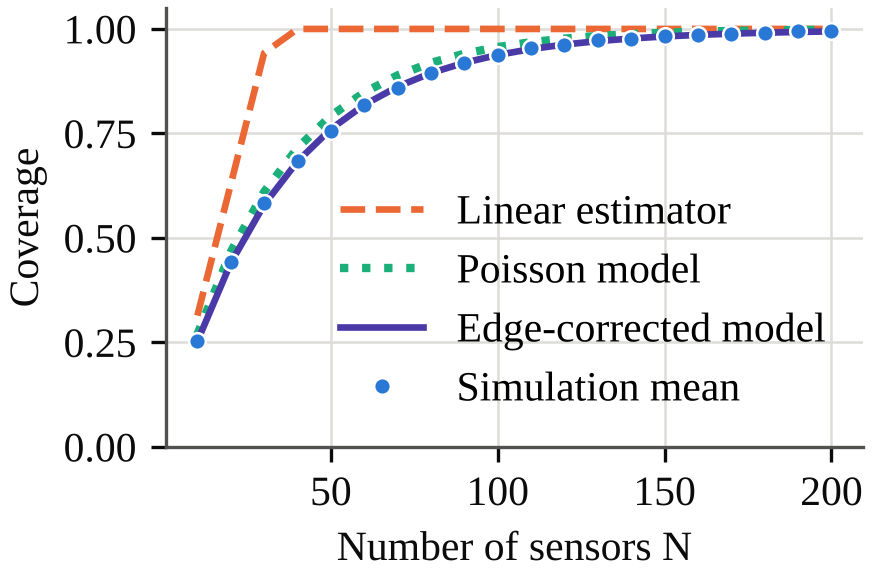
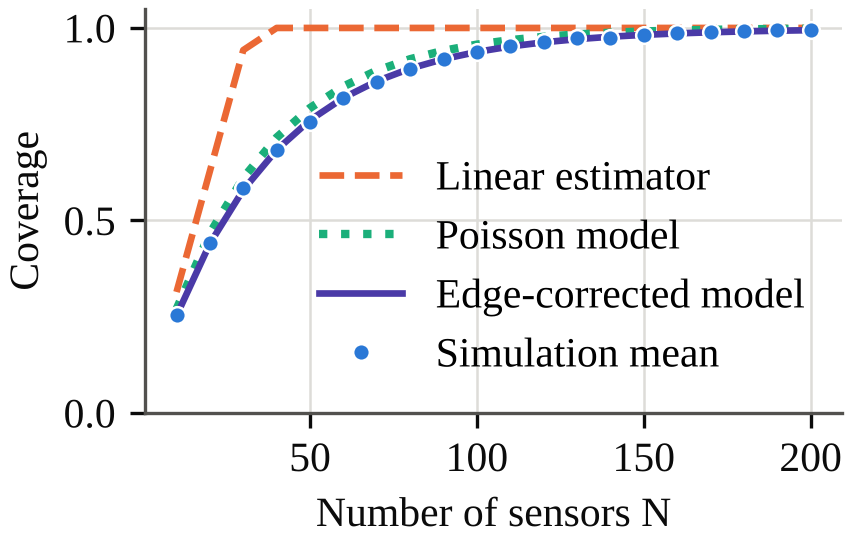
Manuscript: shorter text, split long tables, two-line display equations, compact figures
Tightens the introduction, related work, setup and conclusion (about 400 words) without
changing any statement that answers the reviewers. Long tables may continue in the next
column with a repeated header; Tables 1, 3 and 14 no longer wrap words inside cells;
Eqs. (5), (9), (11), (23)-(25) are set on two lines so that they fit one column; seven
figures are slightly shorter. mark_changes.py ignores pure layout changes of equations.

Changed region(s): [[0.0, 0.0, 1.0, 0.875], [0.3666, 0.9062, 0.7944, 0.9688], [0.9166, 0.8125, 1.0, 0.875]]

diff --git a/experiments/make_figures.py b/experiments/make_figures.py
@@ -26,7 +26,7 @@ os.makedirs(FIG, exist_ok=True)
 
 C1, C2, C3, C4, C5, C6 = "#2a78d6", "#eb6834", "#1baf7a", "#4a3aa7", "#e87ba4", "#008300"
 INK, MUTED, GRIDC = "#0b0b0b", "#52514e", "#dddcd8"
-W, H = 3.0, 1.9                          # inserted at 7.6 cm, one IJIES column
+W, H = 3.0, 1.75                         # inserted at 7.6 cm, one IJIES column
 
 from matplotlib import font_manager  # noqa: E402
 
@@ -83,17 +83,17 @@ def save(fig, name):
 
 # ----------------------------------------------------------------------------- Fig 1 framework
 def fig_framework():
-    fig, ax = plt.subplots(figsize=(W, 4.3))
+    fig, ax = plt.subplots(figsize=(W, 3.95))
     ax.set_xlim(-0.2, 10.2)
-    ax.set_ylim(0, 18.55)
+    ax.set_ylim(0, 17.05)
     ax.axis("off")
     boxes = [
-        (16.0, "Inputs: field side L, sensing radius r,\ncommunication range $R_c$, target $C_t$,\nrisk level δ, failure rate f, drop error σ"),
-        (13.4, "Edge-corrected statistics: mean E[C]\nand variance Var(C), Eqs. (3)-(6)"),
-        (10.8, "Coverage rule: smallest N with\nP(C ≥ $C_t$) ≥ 1 − δ/2 (Beta model)"),
-        (8.2, "Connectivity rule: smallest N with\nP(no isolated node) ≥ 1 − δ/2"),
-        (5.6, "Design: random drop, N = larger rule;\nplanned drop, error-tolerant lattice"),
-        (3.0, "Certification on fresh drops: accept\nif lower bound ≥ 1 − δ, else enlarge"),
+        (14.5, "Inputs: field side L, sensing radius r,\ncommunication range $R_c$, target $C_t$,\nrisk level δ, failure rate f, drop error σ"),
+        (12.15, "Edge-corrected statistics: mean E[C]\nand variance Var(C), Eqs. (3)-(6)"),
+        (9.8, "Coverage rule: smallest N with\nP(C ≥ $C_t$) ≥ 1 − δ/2 (Beta model)"),
+        (7.45, "Connectivity rule: smallest N with\nP(no isolated node) ≥ 1 − δ/2"),
+        (5.1, "Design: random drop, N = larger rule;\nplanned drop, error-tolerant lattice"),
+        (2.75, "Certification on fresh drops: accept\nif lower bound ≥ 1 − δ, else enlarge"),
         (0.4, "Output: certified node count or layout\n(or: not certified)"),
     ]
     last = len(boxes) - 1
@@ -116,21 +116,23 @@ def fig_calibration():
     groups = list(dict.fromkeys(q["name"] for q in rows))
     style = {"small N": (C1, "o"), "very high target": (C2, "s"), "rectangle 2:1": (C3, "^"),
              "rectangle 4:1": (C4, "v"), "L-shaped field": (C5, "D"), "field with a hole": (C6, "P")}
-    fig, ax = plt.subplots(figsize=(W, 2.5))
+    short = {"small N": "small N", "very high target": "high $C_t$", "rectangle 2:1": "rect. 2:1",
+             "rectangle 4:1": "rect. 4:1", "L-shaped field": "L-shape", "field with a hole": "hole"}
+    fig, ax = plt.subplots(figsize=(W, 2.3))
     ax.plot([0, 1], [0, 1], color=INK, lw=0.8, ls="--", zorder=1)
     for g in groups:
         q = [x for x in rows if x["name"] == g]
         col, mk = style.get(g, (MUTED, "o"))
         ax.errorbar([x["predicted"] for x in q], [x["observed"] for x in q],
                     yerr=[[x["observed"] - x["lower"] for x in q], [x["upper"] - x["observed"] for x in q]],
-                    fmt=mk, ms=3.2, color=col, ecolor=col, elinewidth=0.6, capsize=0, lw=0, label=g, zorder=2)
+                    fmt=mk, ms=3.2, color=col, ecolor=col, elinewidth=0.6, capsize=0, lw=0, label=short.get(g, g), zorder=2)
     lo = min(min(x["predicted"] for x in rows), min(x["lower"] for x in rows))
     lo = max(0.0, math.floor(lo * 20) / 20)
     ax.set_xlim(lo, 1.0)
     ax.set_ylim(lo, 1.0)
     ax.set_xlabel("Predicted P(C ≥ $C_t$), Beta rule")
     ax.set_ylabel("Observed share of drops")
-    ax.legend(loc="lower center", bbox_to_anchor=(0.45, 1.0), ncol=2, handletextpad=0.2, columnspacing=0.6,
+    ax.legend(loc="lower center", bbox_to_anchor=(0.45, 1.0), ncol=3, handletextpad=0.2, columnspacing=0.6,
               labelspacing=0.2, handlelength=1.0, borderaxespad=0.2)
     save(fig, "paper_fig11_calibration.png")
 
@@ -248,7 +250,7 @@ def fig_placement():
     e17 = load("E17_certification.csv")
     n_cert = [x for x in e17 if x["part"] == "coverage" and x["L"] == 200 and x["r"] == 25 and x["target"] == 0.99]
     n_cert = int(n_cert[-1]["N_certified"])                    # same L / r as the 500 m field with r = 62.5 m
-    fig, ax = plt.subplots(figsize=(W, 2.3))
+    fig, ax = plt.subplots(figsize=(W, 2.15))
     for kind, col, mk in (("triangular", C4, "o"), ("square", C3, "s")):
         q = [x for x in rows if x["kind"] == kind]
         ax.plot([x["sigma_over_r"] for x in q], [x["robust_nodes"] for x in q], color=col, marker=mk, ms=4)
@@ -282,7 +284,7 @@ def fig_baselines():
     methods = [("Random", C2, "v"), ("VFA", C5, "D"), ("GWO", C6, "^"), ("VASF-PSO", C3, "s"),
                ("PSO", "#eda100", "P"), ("ICGWO", MUTED, "X"), ("DAR-SSA", C1, "o"), ("GA", "#8a5a2b", "h"),
                ("Proposed", C4, "*")]
-    fig, ax = plt.subplots(figsize=(W, 2.1))
+    fig, ax = plt.subplots(figsize=(W, 1.85))
     for m, col, mk in methods:
         q = sorted([x for x in rows if x["method"] == ("Proposed lattice" if m == "Proposed" else m)], key=lambda x: x["N"])
         if not q:
@@ -322,7 +324,7 @@ def fig_environment():
     scen = list(dict.fromkeys(q["scenario"] for q in rows))
     labels = {"Open, unit disk": "Open\nfield", "Open, shadowing 8 dB": "Open\n8 dB",
               "Urban, no shadowing": "Urban\n0 dB", "Urban, shadowing 8 dB": "Urban\n8 dB"}
-    fig, ax = plt.subplots(figsize=(W, 2.0))
+    fig, ax = plt.subplots(figsize=(W, 1.85))
     w = 0.27
     for i, (rule, col, lab) in enumerate([("open_field_rule", C2, "Open-field"),
                                           ("environment_aware_rule", C4, "Aware, analytic"),

diff --git a/manuscript/ijies_docx.py b/manuscript/ijies_docx.py
@@ -180,8 +180,12 @@ class Doc:
         self.add(caption(f"Figure. {self.fig_count} {cap}", after=160))
         return self.fig_count
 
-    def table(self, cap, rows, widths, header_rows=1, align=None, size=20, mono_first=False):
-        """Three-line table, 10 pt, kept on one page."""
+    def table(self, cap, rows, widths, header_rows=1, align=None, size=20, mono_first=False, split=False, keep=()):
+        """Three-line table, 10 pt, kept on one page.
+
+        With split=True a long table may continue in the next column: the header row repeats, the header stays
+        with the first body row, the last two rows stay together, and rows listed in keep stay with the next row.
+        """
         self.tab_count += 1
         self.add(caption(f"Table {self.tab_count}. {cap}", keep_next=True, before=120, after=60))
         total = sum(widths)
@@ -204,8 +208,9 @@ class Doc:
                     b += bot
                 jc = (align[ci] if align else ("left" if ci == 0 else "center"))
                 lines = cell.split("\n")
+                kn = "<w:keepNext/>" if (not split or ri <= header_rows or ri >= n - 2 or ri in keep) else ""
                 inner = "".join(
-                    f'<w:p><w:pPr><w:keepNext/><w:spacing w:before="10" w:after="10" w:line="230" w:lineRule="auto"/>'
+                    f'<w:p><w:pPr>{kn}<w:spacing w:before="10" w:after="10" w:line="230" w:lineRule="auto"/>'
                     f'<w:jc w:val="{jc}"/></w:pPr>{rich(ln, size, b=(ri < header_rows))}</w:p>' for ln in lines)
                 xml += (f'<w:tc><w:tcPr><w:tcW w:w="{widths[ci]}" w:type="dxa"/>'
                         f'<w:tcBorders>{b}</w:tcBorders><w:vAlign w:val="center"/></w:tcPr>{inner}</w:tc>')
@@ -260,17 +265,17 @@ class Doc:
             rows = ""
             for latex, num in eqs:
                 om = next(it)
-                left = (f'<w:p><w:pPr><w:keepNext/><w:spacing w:before="40" w:after="40"/><w:ind w:left="283"/><w:jc w:val="left"/></w:pPr>'
+                left = (f'<w:p><w:pPr><w:keepNext/><w:spacing w:before="40" w:after="40"/><w:ind w:left="113"/><w:jc w:val="left"/></w:pPr>'
                         f'<m:oMathPara><m:oMathParaPr><m:jc m:val="left"/></m:oMathParaPr>{om}</m:oMathPara></w:p>')
                 right = (f'<w:p><w:pPr><w:spacing w:before="40" w:after="40"/><w:jc w:val="right"/></w:pPr>'
                          f'{run(f"({num})", 22)}</w:p>')
-                rows += (f'<w:tr><w:trPr><w:cantSplit/></w:trPr><w:tc><w:tcPr><w:tcW w:w="{COL_TW - 560}" w:type="dxa"/><w:vAlign w:val="center"/></w:tcPr>{left}</w:tc>'
-                         f'<w:tc><w:tcPr><w:tcW w:w="560" w:type="dxa"/><w:vAlign w:val="center"/></w:tcPr>{right}</w:tc></w:tr>')
+                rows += (f'<w:tr><w:trPr><w:cantSplit/></w:trPr><w:tc><w:tcPr><w:tcW w:w="{COL_TW - 500}" w:type="dxa"/><w:vAlign w:val="center"/></w:tcPr>{left}</w:tc>'
+                         f'<w:tc><w:tcPr><w:tcW w:w="500" w:type="dxa"/><w:vAlign w:val="center"/></w:tcPr>{right}</w:tc></w:tr>')
             tbl = (f'<w:tbl><w:tblPr><w:tblW w:w="{COL_TW}" w:type="dxa"/>'
                    '<w:tblBorders><w:top w:val="nil"/><w:left w:val="nil"/><w:bottom w:val="nil"/><w:right w:val="nil"/>'
                    '<w:insideH w:val="nil"/><w:insideV w:val="nil"/></w:tblBorders><w:tblLayout w:type="fixed"/>'
                    '<w:tblCellMar><w:left w:w="0" w:type="dxa"/><w:right w:w="0" w:type="dxa"/></w:tblCellMar></w:tblPr>'
-                   f'<w:tblGrid><w:gridCol w:w="{COL_TW - 560}"/><w:gridCol w:w="560"/></w:tblGrid>{rows}</w:tbl>')
+                   f'<w:tblGrid><w:gridCol w:w="{COL_TW - 500}"/><w:gridCol w:w="500"/></w:tblGrid>{rows}</w:tbl>')
             self.parts[k] = blank() + tbl + blank()
 
     # ------------------------------------------------------------------ assembly

diff --git a/manuscript/mark_changes.py b/manuscript/mark_changes.py
@@ -68,7 +68,8 @@ def _paragraphs(xml):
 
 
 def _math_key(m_xml):
-    return re.sub(r"\s+", "", "".join(re.findall(r"<m:t[^>]*>(.*?)</m:t>", m_xml, re.S)))
+    """Symbols of an equation in order; spacing, brackets and line layout are not content."""
+    return re.sub(r"[\s\[\](){}&\u2009\u2005\u2002\u2003]+", "", "".join(re.findall(r"<m:t[^>]*>(.*?)</m:t>", m_xml, re.S)))
 
 
 def _redden_rpr(run_xml):
